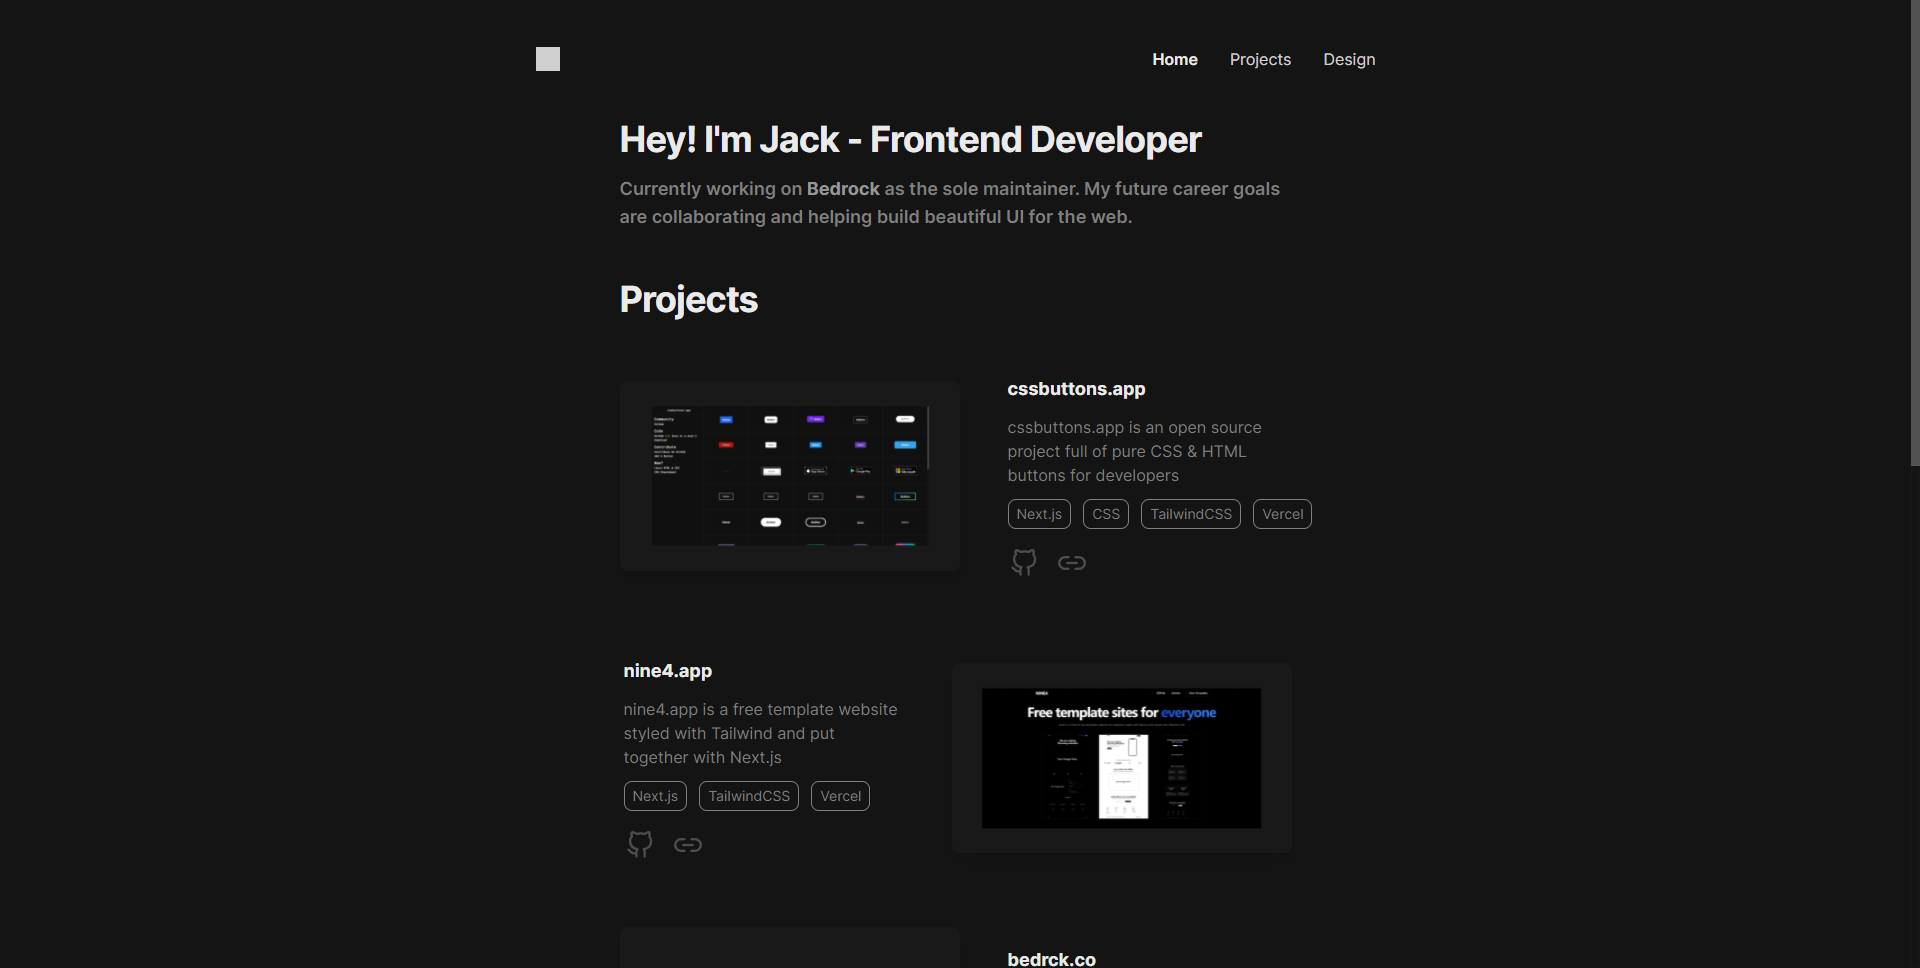
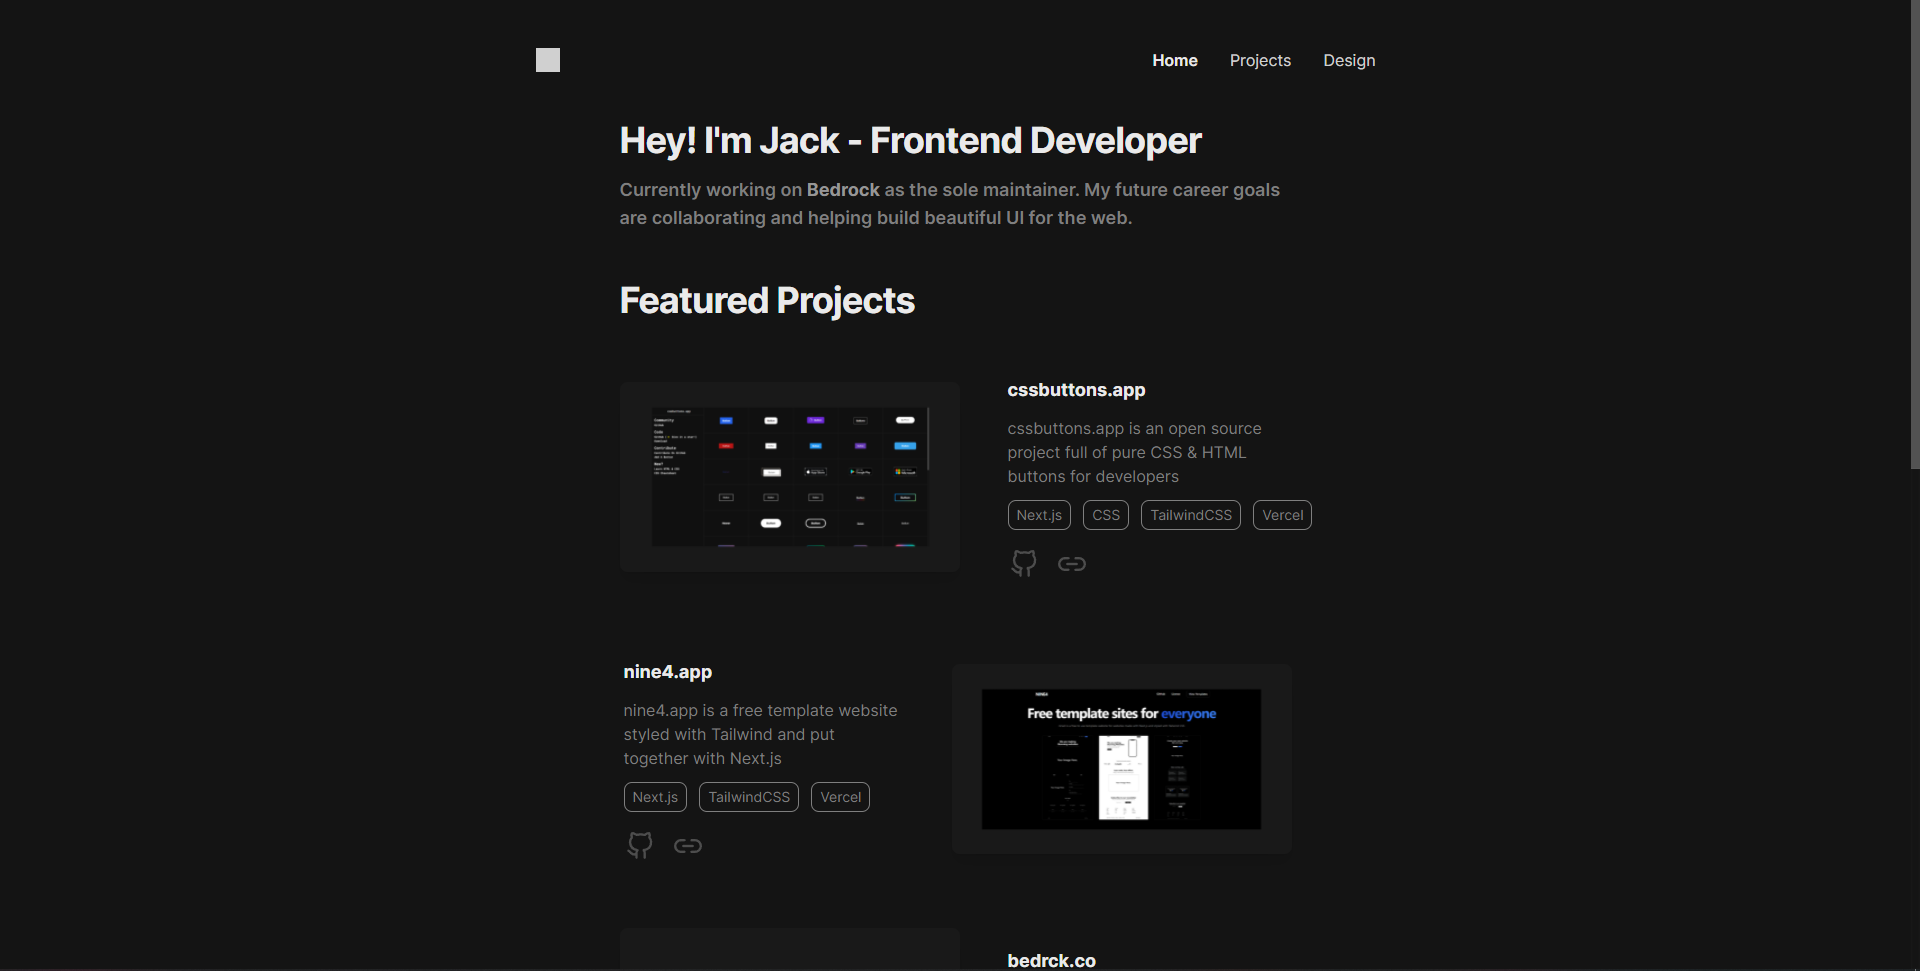
done(changes): small changes

diff --git a/components/Projects/Projects.tsx b/components/Projects/Projects.tsx
@@ -1,14 +1,14 @@
 import React from "react";
-import projects from "@/components/Projects/ProjectList";
+import Projects from "@/components/Projects/FeaturedProjectList";
 
 export default function Project() {
   return (
     <>
-      <h3 className="text-gray-200 text-3xl font-bold tracking-tight md:text-4xl sm:mb-11 mb-0 p-4 md:p-4 lg:p-0">
-        Projects
-      </h3>
+        <h2 className="text-gray-200 text-3xl font-bold tracking-tight md:text-4xl sm:mb-11 mb-0 p-4 md:p-4 lg:p-0">
+          Featured Projects
+        </h2>
       <div className="mb-14 space-y-14 p-4 md:p-4 lg:p-0">
-        {projects.map((project, index) => (
+        {Projects.map((project, index) => (
           <div
             className="flex flex-wrap md:justify-between md:items-center"
             key={index}
@@ -25,7 +25,9 @@ export default function Project() {
               }
             />
             <div className="flex flex-col w-full mx-1 my-3 space-y-3  md:w-5/12">
-              <h3 className="text-gray-200 text-lg font-bold">{project.title}</h3>
+              <h3 className="text-gray-200 text-lg font-bold">
+                {project.title}
+              </h3>
               <p className="text-gray-500">{project.description}</p>
               <div className="flex pb-2 space-x-3">
                 {project.tools.map((disc, index) => (

diff --git a/components/Projects/ProjectList.tsx b/components/Projects/ProjectList.tsx
@@ -1,4 +1,4 @@
-const projects = [
+const Projects = [
   {
     title: "cssbuttons.app",
     image: "/images/cssbuttons",
@@ -7,7 +7,6 @@ const projects = [
     tools: ["Next.js", "CSS", "TailwindCSS", "Vercel"],
     github: "https://github.com/r1/cssbuttons",
     link: "https://cssbuttons.app/",
-    url: "/cssbuttons"
   },
   {
     title: "nine4.app",
@@ -17,18 +16,25 @@ const projects = [
     tools: ["Next.js", "TailwindCSS", "Vercel"],
     github: "https://github.com/r1/nine4",
     link: "https://nine4.app/",
-    url: "/nine4"
   },
   {
     title: "bedrck.co",
-    image: "/images/bedrock",
+    image: "/images/placeholder",
     description:
       "Coming Soon.",
     tools: ["Next.js"],
     github: "https://github.com/r1/bedrock",
     link: "https://bedrck.co/",
-    url: "/bedrock",
+  },
+  {
+    title: "Reddit Clone",
+    image: "/images/placeholder",
+    description:
+      "Coming Soon.",
+    tools: ["Next.js"],
+    github: "https://github.com/r1/reddit",
+    link: "https://github.com/r1/reddit",
   },
 ];
 
-export default projects;
+export default Projects;

diff --git a/components/Projects/FeaturedProjectList.tsx b/components/Projects/FeaturedProjectList.tsx
@@ -1,0 +1,32 @@
+const FeaturedProjects = [
+    {
+      title: "cssbuttons.app",
+      image: "/images/cssbuttons",
+      description:
+        "cssbuttons.app is an open source project full of pure CSS & HTML buttons for developers",
+      tools: ["Next.js", "CSS", "TailwindCSS", "Vercel"],
+      github: "https://github.com/r1/cssbuttons",
+      link: "https://cssbuttons.app/",
+    },
+    {
+      title: "nine4.app",
+      image: "/images/nine4",
+      description:
+        "nine4.app is a free template website styled with Tailwind and put together with Next.js",
+      tools: ["Next.js", "TailwindCSS", "Vercel"],
+      github: "https://github.com/r1/nine4",
+      link: "https://nine4.app/",
+    },
+    {
+      title: "bedrck.co",
+      image: "/images/placeholder",
+      description:
+        "Coming Soon.",
+      tools: ["Next.js"],
+      github: "https://github.com/r1/bedrock",
+      link: "https://bedrck.co/",
+    },
+  ];
+  
+  export default FeaturedProjects;
+  

diff --git a/pages/projects.tsx b/pages/projects.tsx
@@ -2,7 +2,7 @@ import React from "react";
 import Head from "next/head";
 import Header from "@/components/Header";
 import { NextSeo } from "next-seo";
-import projects from "@/components/Projects/ProjectList";
+import Projects from "@/components/Projects/ProjectList";
 import LayoutGA from "@/components/LayoutGA";
 import Footer from "@/components/Footer";
 
@@ -28,10 +28,10 @@ export default function project() {
             Projects
           </h3>
           <h2 className="mb-10 text-gray-400">
-            My best projects that I have been working on. 😎
+            My best projects that I have been working on.
           </h2>
           <div className="my-5 space-y-14">
-            {projects.map((project, index) => (
+            {Projects.map((project, index) => (
               <article
                 className="flex flex-wrap md:justify-between md:items-center"
                 key={index}

diff --git a/components/Skills/SkillsList.tsx b/components/Skills/SkillsList.tsx
@@ -8,16 +8,16 @@ export const skills = [
     name: "CSS",
   },
   {
-    category: "React Styling Library",
-    name: "styled-components",
-  },
-  {
     category: "CSS Framework",
     name: "Tailwind CSS",
   },
   {
     category: "Programming Language",
     name: "JavaScript",
+  },
+  {
+    category: "Programming Language",
+    name: "TypeScript",
   },
   {
     category: "JavaScript Library",
